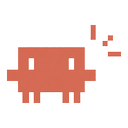
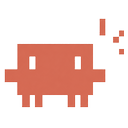
[gpt] Simplify viewer controls

diff --git a/viewer.js b/viewer.js
@@ -6,8 +6,8 @@ const fs = require('fs');
 const path = require('path');
 const os = require('os');
 const { fileURLToPath } = require('url');
-const { extractConversation, computeModelRuns } = require('./conversation');
-const { SEARCH_SVG, MODEL_SVG } = require('./icons');
+const { extractConversation, conversationToText, computeModelRuns } = require('./conversation');
+const { SEARCH_SVG, MODEL_SVG, COPY_SVG } = require('./icons');
 
 const RENDER_WINDOW = 200; // big sessions: render latest N first, "render all" banner
 
@@ -37,7 +37,6 @@ class ConversationViewer {
       agentLabel: c.get('agentLabel', 'CLAUDE'),
       showNames: c.get('showNames', true),
       liveRefresh: c.get('liveRefresh.enabled', false),
-      viewerDensity: c.get('viewerDensity', 'short'),
       shortPreviewLines: c.get('shortPreviewLines', 4),
     };
   }
@@ -99,6 +98,7 @@ class ConversationViewer {
 
   async onMessage(entry, msg) {
     const { session, convo, title, folder } = entry;
+    const cfg = this.config;
     switch (msg.type) {
       case 'resume': {
         if (!/^[0-9a-f]{8}-[0-9a-f]{4}-[0-9a-f]{4}-[0-9a-f]{4}-[0-9a-f]{12}$/i.test(session.id)) {
@@ -110,6 +110,20 @@ class ConversationViewer {
         terminal.sendText(`claude --resume ${session.id}`, true);
         break;
       }
+      case 'copy':
+        await vscode.env.clipboard.writeText(conversationToText(convo, {
+          title,
+          folder,
+          userLabel: cfg.userLabel,
+          agentLabel: cfg.agentLabel,
+          names: cfg.showNames,
+          filter: 'all',
+          withTools: false,
+        }));
+        vscode.window.showInformationMessage(
+          `Copied entire conversation (${convo.messages.filter((m) => m.role !== 'tool').length} messages)`
+        );
+        break;
       case 'openLink': {
         const href = String(msg.href || '').trim();
         if (!href) break;
@@ -149,8 +163,13 @@ class ConversationViewer {
       }
       case 'setConfig': {
         const c = vscode.workspace.getConfiguration('claudeSessionsViewer');
-        if (msg.viewerDensity === 'full' || msg.viewerDensity === 'short')
-          await c.update('viewerDensity', msg.viewerDensity, vscode.ConfigurationTarget.Global);
+        if (msg.theme) await c.update('theme', msg.theme, vscode.ConfigurationTarget.Global);
+        if (msg.userLabel !== undefined)
+          await c.update('userLabel', msg.userLabel || 'USER', vscode.ConfigurationTarget.Global);
+        if (msg.agentLabel !== undefined)
+          await c.update('agentLabel', msg.agentLabel || 'CLAUDE', vscode.ConfigurationTarget.Global);
+        if (msg.showNames !== undefined)
+          await c.update('showNames', !!msg.showNames, vscode.ConfigurationTarget.Global);
         break;
       }
     }
@@ -173,7 +192,6 @@ class ConversationViewer {
       agentLabel: cfg.agentLabel,
       showNames: cfg.showNames,
       theme: cfg.theme,
-      density: cfg.viewerDensity === 'full' ? 'full' : 'short',
       foldLines: Math.max(1, Math.min(30, Number(cfg.shortPreviewLines) || 4)),
       window: RENDER_WINDOW,
       sessionId: session.id,
@@ -240,6 +258,17 @@ class ConversationViewer {
   .seg:last-child { border-right:none; }
   .seg.on { background:var(--btn2); color:var(--fg); }
   .spacer { flex:1 1 auto; }
+  .settingsmenu { position:absolute; top:100%; left:14px; margin-top:6px; background:var(--panel); border:1px solid var(--line);
+    border-radius:10px; padding:8px; font-size:12px; z-index:20; display:none; width:250px;
+    box-shadow:0 8px 28px rgba(0,0,0,.16); }
+  .settingsmenu.open { display:block; }
+  .settings-title { color:var(--mut); font-size:11px; text-transform:uppercase; letter-spacing:.04em; padding:4px 8px 2px; }
+  .settings-row { display:flex; align-items:center; gap:8px; margin:6px 8px; }
+  .settings-row .lbl { color:var(--mut); width:56px; flex-shrink:0; }
+  .settings-row .opt { border:1px solid var(--line); border-radius:9px; padding:0 9px; cursor:pointer; color:var(--mut); }
+  .settings-row .opt.on { border-color:var(--agent-strong); color:var(--agent-strong); }
+  .settings-row input[type=text] { background:var(--bg); border:1px solid var(--line); color:var(--fg);
+    border-radius:6px; padding:4px 7px; min-width:0; flex:1; font-size:12px; }
   .searchbar { display:none; grid-template-columns:1fr auto auto auto auto; align-items:center; gap:7px;
     padding:8px 16px; border-bottom:1px solid var(--line); flex-shrink:0; z-index:4; }
   .searchbar.open { display:grid; }
@@ -351,7 +380,7 @@ class ConversationViewer {
   }
 </style>
 </head>
-<body class="sys" data-names="${cfg.showNames ? 'on' : 'off'}" data-density="${cfg.viewerDensity === 'full' ? 'full' : 'short'}" style="--fold-lines:${Math.max(1, Math.min(30, Number(cfg.shortPreviewLines) || 4))}">
+<body class="sys" data-names="${cfg.showNames ? 'on' : 'off'}" style="--fold-lines:${Math.max(1, Math.min(30, Number(cfg.shortPreviewLines) || 4))}">
 <main class="viewer">
   <div class="vhead">
     <div class="vrow">
@@ -361,15 +390,21 @@ class ConversationViewer {
     <div class="meta" id="meta">${esc(folder)} · ${nMsgs} messages · ${esc(session.id)} · ${fmt(convo.firstTs)} → ${fmt(convo.lastTs)}</div>
   </div>
   <div class="controls">
+    <button class="ibtn" id="settingsBtn" aria-label="Viewer settings" data-tip="Viewer settings">⋯</button>
+    <div class="settingsmenu" id="settingsMenu">
+      <div class="settings-title">Labels &amp; theme</div>
+      <div class="settings-row"><label><input type="checkbox" id="showNames"${cfg.showNames ? ' checked' : ''}> Show names</label></div>
+      <div class="settings-row"><span class="lbl">You</span><input type="text" id="userLabel"></div>
+      <div class="settings-row"><span class="lbl">Agent</span><input type="text" id="agentLabel"></div>
+      <div class="settings-row"><span class="lbl">Theme</span>
+        <span class="opt" data-th="system">System</span><span class="opt" data-th="light">Light</span><span class="opt" data-th="dark">Dark</span></div>
+    </div>
     <div class="segmented" id="filterSeg">
       <button class="seg on" data-f="all">All</button>
       <button class="seg" data-f="assistant" id="chipAgent">${esc(cfg.agentLabel)}</button>
       <button class="seg" data-f="user" id="chipUser">${esc(cfg.userLabel)}</button>
     </div>
-    <div class="segmented" id="densitySeg">
-      <button class="seg${cfg.viewerDensity === 'full' ? '' : ' on'}" data-d="short">Short</button>
-      <button class="seg${cfg.viewerDensity === 'full' ? ' on' : ''}" data-d="full">Full</button>
-    </div>
+    <button class="ibtn" id="copyConversation" aria-label="Copy whole conversation" data-tip="Copy whole conversation">${COPY_SVG}</button>
     <span class="spacer"></span>
     <button class="ibtn" id="modelToggle" aria-label="Model lane" data-tip="Which model handled what">${MODEL_SVG}</button>
     <button class="ibtn" id="searchToggle" aria-label="Search" data-tip="Search">${SEARCH_SVG}</button>
@@ -397,16 +432,15 @@ const DATA = ${data};
 // is wasted work, so cap the source text generously relative to the preview.
 const FOLDED_RENDER_CAP = Math.max(1200, (DATA.foldLines || 4) * 160);
 let filter = 'all';
-let density = DATA.density === 'full' ? 'full' : 'short';
 let renderAll = DATA.messages.length <= DATA.window * 1.2;
 let currentMatch = 0;
 let matches = [];
 let scrollTimer = 0;
-// Bubble ids whose fold state differs from the mode default
-// (Short: default folded, Full: default unfolded). Cleared on mode switch.
+// Bubble ids manually folded by the reader. Long messages remain expanded by
+// default; the existing per-bubble chevron is the only folding control.
 const overrides = new Set();
 const toggleFold = (i) => { if (overrides.has(i)) overrides.delete(i); else overrides.add(i); };
-const isFolded = (i) => (density === 'short') !== overrides.has(i);
+const isFolded = (i) => overrides.has(i);
 const $ = id => document.getElementById(id);
 const escHtml = s => String(s).replace(/&/g,'&amp;').replace(/</g,'&lt;').replace(/>/g,'&gt;');
 
@@ -655,13 +689,12 @@ function render(keepScroll) {
     else groups.push({ role: m.role, indices: [i] });
     groupOf[i] = groups[groups.length - 1].indices[0];
   }
-  // Bubbles containing search matches must be readable: force-unfold them
-  // (in Short by overriding, in Full by removing a manual fold override).
+  // Bubbles containing search matches must be readable: force-unfold them.
   if ($('search').value.trim())
     matches.forEach(i => {
       const g = groupOf[i];
       if (g === undefined) return;
-      if (density === 'short') overrides.add(g); else overrides.delete(g);
+      overrides.delete(g);
     });
   let lastDay = null;
   const frag = [];
@@ -827,6 +860,13 @@ window.addEventListener('message', e => {
 });
 
 $('resume').onclick = () => vscodeApi.postMessage({ type:'resume' });
+$('copyConversation').onclick = () => vscodeApi.postMessage({ type:'copy' });
+$('settingsBtn').onclick = () => $('settingsMenu').classList.toggle('open');
+document.addEventListener('click', e => {
+  if (!$('settingsMenu').classList.contains('open')) return;
+  if ($('settingsBtn') === e.target || $('settingsMenu').contains(e.target)) return;
+  $('settingsMenu').classList.remove('open');
+});
 $('searchToggle').onclick = () => {
   $('searchbar').classList.toggle('open');
   $('searchToggle').classList.toggle('open', $('searchbar').classList.contains('open'));
@@ -838,6 +878,23 @@ $('modelToggle').onclick = () => {
 };
 renderModelStrip();
 $('jump').onclick = () => { $('chat').scrollTop = $('chat').scrollHeight; updateRail(); };
+$('showNames').onchange = e => {
+  document.body.dataset.names = e.target.checked ? 'on' : 'off';
+  vscodeApi.postMessage({ type:'setConfig', showNames: e.target.checked });
+};
+$('userLabel').value = DATA.userLabel;
+$('agentLabel').value = DATA.agentLabel;
+$('userLabel').oninput = () => { render(true); vscodeApi.postMessage({ type:'setConfig', userLabel: $('userLabel').value }); };
+$('agentLabel').oninput = () => { render(true); vscodeApi.postMessage({ type:'setConfig', agentLabel: $('agentLabel').value }); };
+document.querySelectorAll('[data-th]').forEach(b => {
+  if (b.dataset.th === DATA.theme) b.classList.add('on');
+  b.onclick = () => {
+    document.querySelectorAll('[data-th]').forEach(x => x.classList.remove('on'));
+    b.classList.add('on');
+    document.body.className = b.dataset.th === 'system' ? 'sys' : b.dataset.th;
+    vscodeApi.postMessage({ type:'setConfig', theme: b.dataset.th });
+  };
+});
 $('search').oninput = () => {
   currentMatch = 0;
   if (!$('search').value.trim()) overrides.clear();
@@ -856,16 +913,6 @@ $('clearSearch').onclick = () => {
     $('searchToggle').classList.remove('open');
   }
 };
-document.querySelectorAll('[data-d]').forEach(b => b.onclick = () => {
-  if (b.dataset.d === density) return;
-  document.querySelectorAll('[data-d]').forEach(x => x.classList.remove('on'));
-  b.classList.add('on');
-  density = b.dataset.d;
-  document.body.dataset.density = density;
-  overrides.clear();
-  vscodeApi.postMessage({ type:'setConfig', viewerDensity: density });
-  render(true);
-});
 document.querySelectorAll('[data-f]').forEach(b => b.onclick = () => {
   document.querySelectorAll('[data-f]').forEach(x => x.classList.remove('on'));
   b.classList.add('on'); filter = b.dataset.f; currentMatch = 0; render(true);

diff --git a/test/viewer.test.js b/test/viewer.test.js
@@ -149,7 +149,7 @@ test('generated webview script is valid JavaScript', () => {
   assert.doesNotThrow(() => new vm.Script(script[1]));
 });
 
-test('generated HTML contains the Short/Full toggle and line-clamp CSS, no scan-row markup', () => {
+test('generated HTML uses one viewer mode with manual folding and no density toggle', () => {
   const viewer = new ConversationViewer({});
   const session = { id: '11111111-2222-3333-4444-555555555555', file, cwd: tmp };
   const html = viewer.html({
@@ -162,13 +162,14 @@ test('generated HTML contains the Short/Full toggle and line-clamp CSS, no scan-
     title: 'T',
     folder: 'F',
   });
-  assert.match(html, /data-d="short"/);
-  assert.match(html, /data-d="full"/);
+  assert.doesNotMatch(html, /data-d="short"|data-d="full"/);
   assert.match(html, /-webkit-line-clamp:var\(--fold-lines, 4\)/);
   assert.match(html, /max-height:calc\(var\(--fold-lines, 4\) \* 1\.52em\)/,
     'hard height cap so folded code blocks stay clamped');
-  assert.match(html, /data-density="short"/, 'default density is short');
   assert.match(html, /--fold-lines:4/, 'default preview length is 4 lines');
+  assert.match(html, /const isFolded = \(i\) => overrides\.has\(i\)/, 'folding stays per message');
+  assert.match(html, /id="settingsBtn"/);
+  assert.match(html, /id="copyConversation"/);
   assert.doesNotMatch(html, /\.row-text/);
   assert.doesNotMatch(html, /\.row-time/);
   assert.doesNotMatch(html, /id="moreBtn"|id="moreMenu"|mmCopy|mmExport|mmCopyPath|mmReveal/,
@@ -211,7 +212,6 @@ test('filter chips use the configured names in All, Agent, User order without fo
       agentLabel: 'Clone',
       showNames: true,
       theme: 'system',
-      viewerDensity: 'short',
     }[key] ?? fallback),
   });
   try {
@@ -325,7 +325,7 @@ test('a <script> payload inside message text renders escaped, not as a live tag'
   assert.match(html, /\\u003cscript>alert\(1\)\\u003c\/script>/);
 });
 
-test('setConfig persists viewerDensity full/short, ignores scan/read/bogus', async () => {
+test('viewer settings persist labels, names, and theme', async () => {
   const viewer = new ConversationViewer({});
   const updates = [];
   const origGetConfiguration = fakeVscode.workspace.getConfiguration;
@@ -337,18 +337,13 @@ test('setConfig persists viewerDensity full/short, ignores scan/read/bogus', asy
     const session = { id: '11111111-2222-3333-4444-555555555555', file, cwd: tmp };
     const entry = { session, convo: { messages: [] }, title: 'T', folder: 'F' };
 
-    await viewer.onMessage(entry, { type: 'setConfig', viewerDensity: 'short' });
-    assert.deepStrictEqual(updates.find((u) => u[0] === 'viewerDensity'), ['viewerDensity', 'short']);
-
-    updates.length = 0;
-    await viewer.onMessage(entry, { type: 'setConfig', viewerDensity: 'full' });
-    assert.deepStrictEqual(updates.find((u) => u[0] === 'viewerDensity'), ['viewerDensity', 'full']);
-
-    for (const rejected of ['scan', 'read', 'bogus']) {
-      updates.length = 0;
-      await viewer.onMessage(entry, { type: 'setConfig', viewerDensity: rejected });
-      assert.strictEqual(updates.find((u) => u[0] === 'viewerDensity'), undefined, `should ignore '${rejected}'`);
-    }
+    await viewer.onMessage(entry, { type: 'setConfig', userLabel: 'Yury', agentLabel: 'Claude', showNames: false, theme: 'dark' });
+    assert.deepStrictEqual(updates, [
+      ['theme', 'dark'],
+      ['userLabel', 'Yury'],
+      ['agentLabel', 'Claude'],
+      ['showNames', false],
+    ]);
   } finally {
     fakeVscode.workspace.getConfiguration = origGetConfiguration;
   }

diff --git a/icons.js b/icons.js
@@ -14,4 +14,8 @@ const MODEL_SVG =
   '<path d="M8 2 13.5 5 8 8 2.5 5Z"/><path d="M2.5 8 8 11 13.5 8" stroke-linecap="round"/>' +
   '<path d="M2.5 11 8 14 13.5 11" stroke-linecap="round"/></svg>';
 
-module.exports = { SEARCH_SVG, MODEL_SVG };
+const COPY_SVG =
+  '<svg width="14" height="14" viewBox="0 0 16 16" fill="none" stroke="currentColor" stroke-width="1.35" stroke-linejoin="round" aria-hidden="true">' +
+  '<rect x="5.5" y="5.5" width="7.5" height="7.5" rx="1.2"/><path d="M10.5 5.5V4.2c0-.7-.5-1.2-1.2-1.2H4.2c-.7 0-1.2.5-1.2 1.2v5.1c0 .7.5 1.2 1.2 1.2h1.3"/></svg>';
+
+module.exports = { SEARCH_SVG, MODEL_SVG, COPY_SVG };